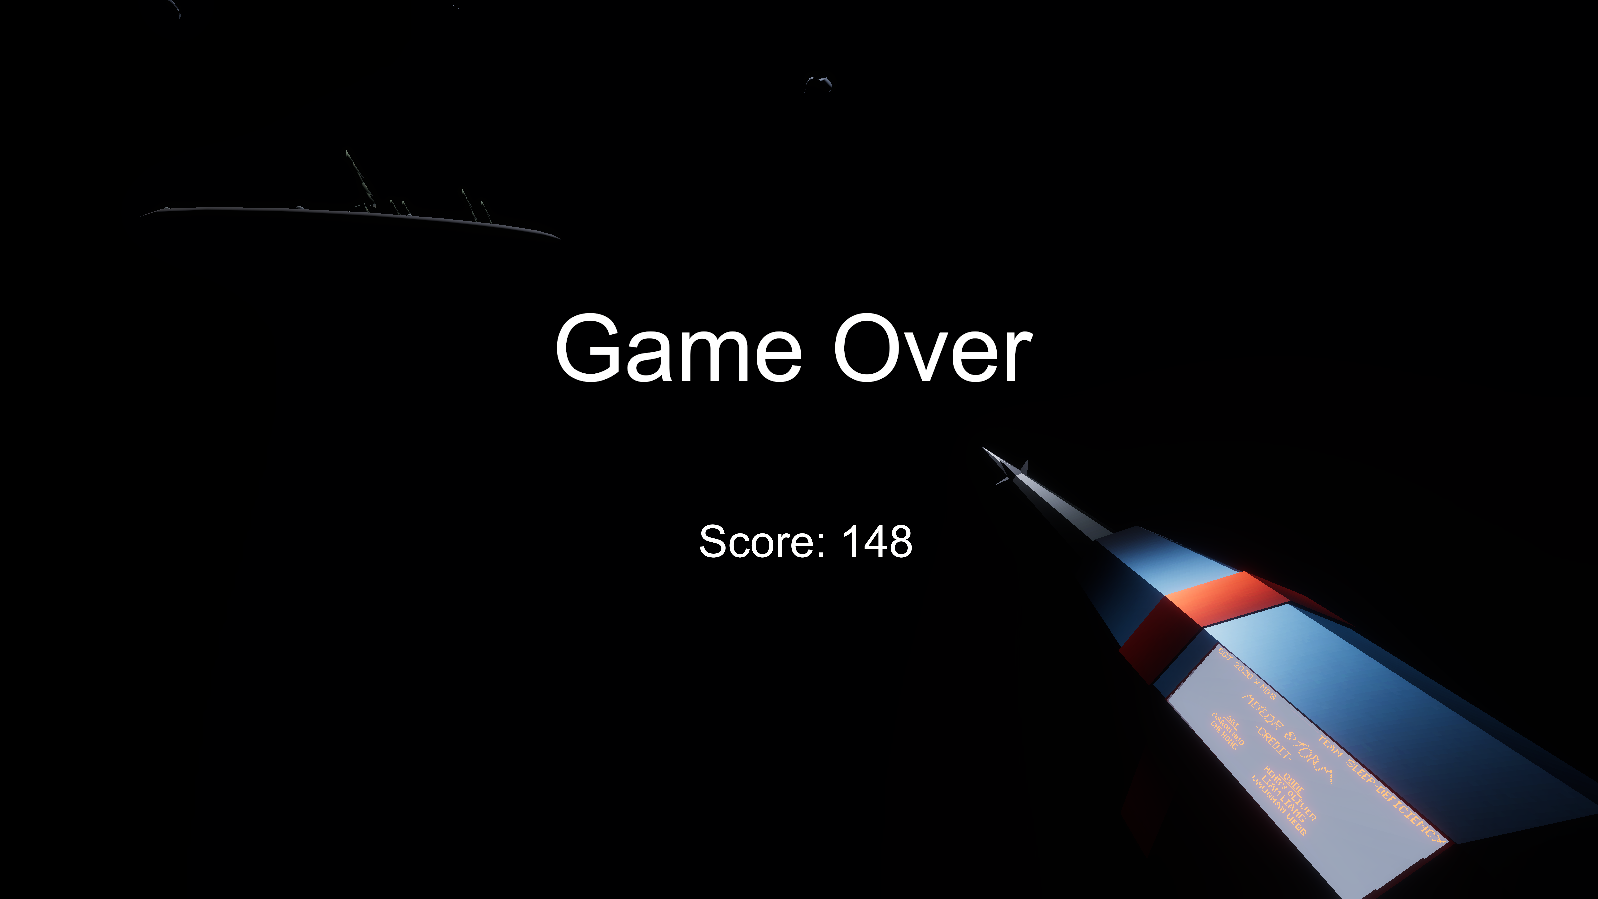
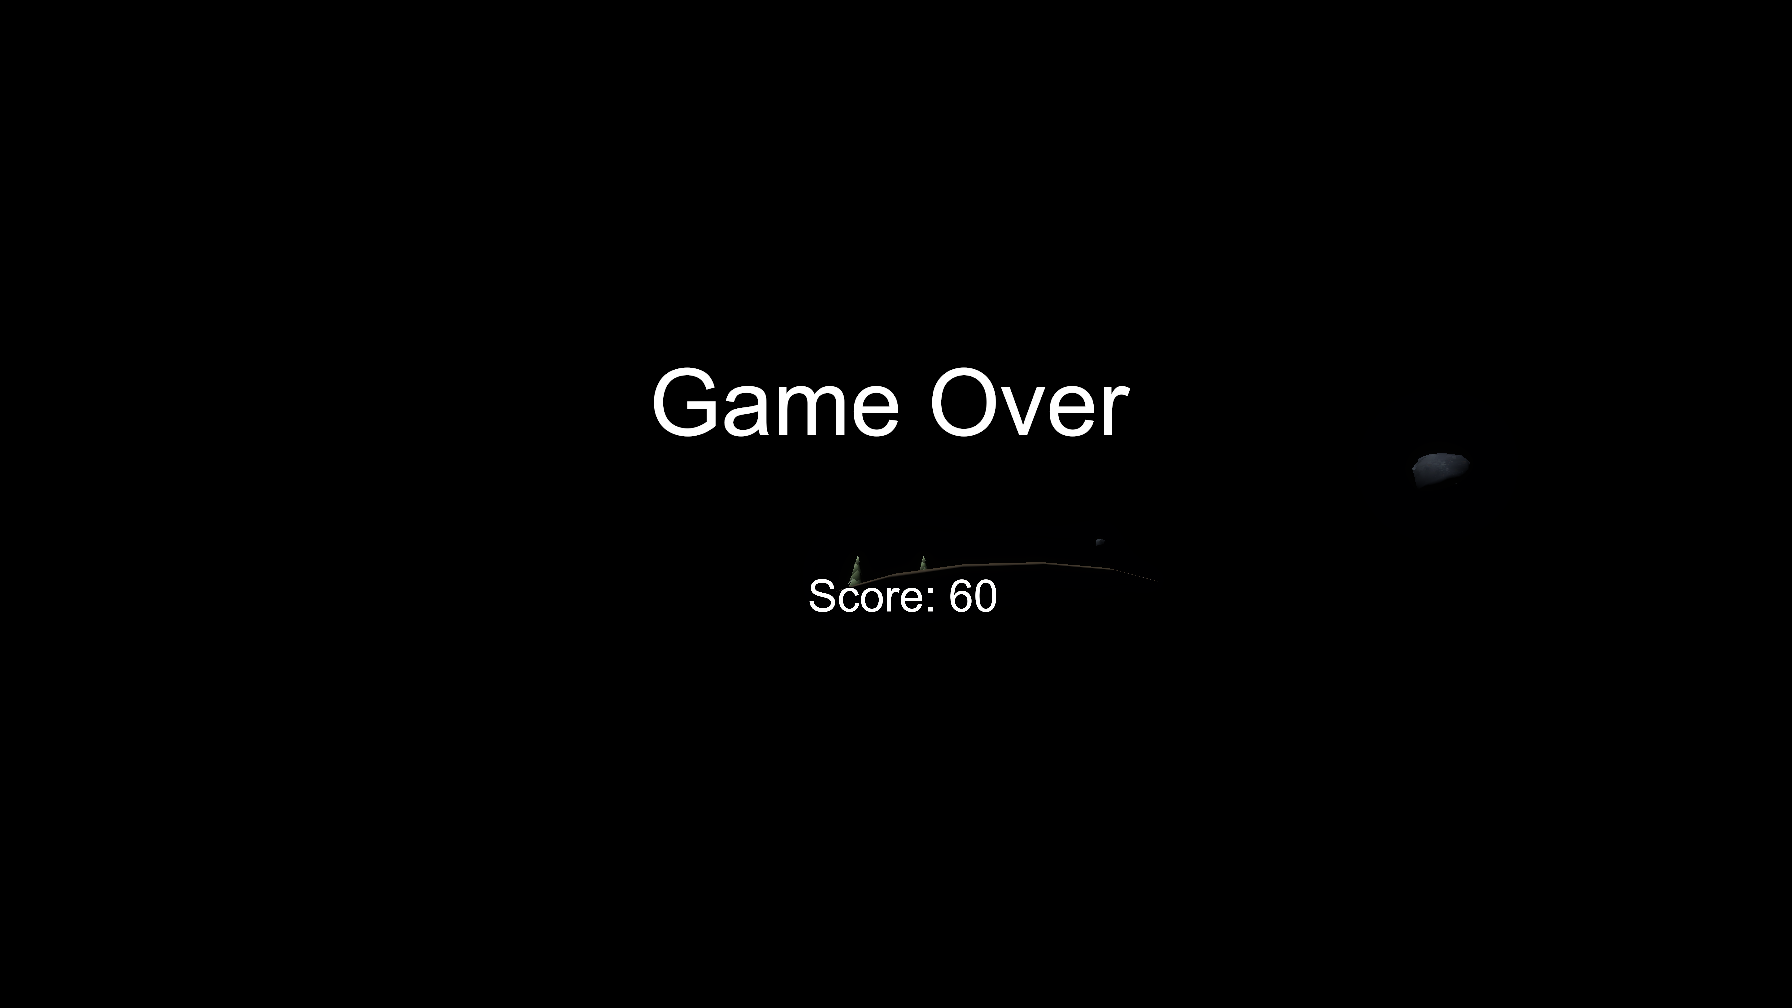
explosion force added onto metorites

diff --git a/Assets/Scripts/meteor.cs b/Assets/Scripts/meteor.cs
@@ -80,6 +80,7 @@ public class meteor : MonoBehaviour
                 {
 
                     Debug.Log(hit.transform.gameObject.name);
+
                     //Tree Logic
                     if (hit.collider.tag == "mineableWood")
                     {
@@ -93,6 +94,18 @@ public class meteor : MonoBehaviour
                     else
                     {
                         hit.transform.gameObject.GetComponent<distructableObjs>().HP -= size * 5.0f;
+                    }
+                }
+
+                hits = Physics.SphereCastAll(transform.position, 60.0f, transform.forward, 1.0f);
+                foreach (var hit in hits)
+                {
+
+                    if (hit.collider.tag == "Player")
+                    {
+                        Debug.Log("boom");
+
+                        hit.collider.transform.gameObject.GetComponent<Rigidbody>().AddExplosionForce(470.0f, this.transform.position, 300.0f, 6.0f);
                     }
                 }
                 StartCoroutine(despawn());
